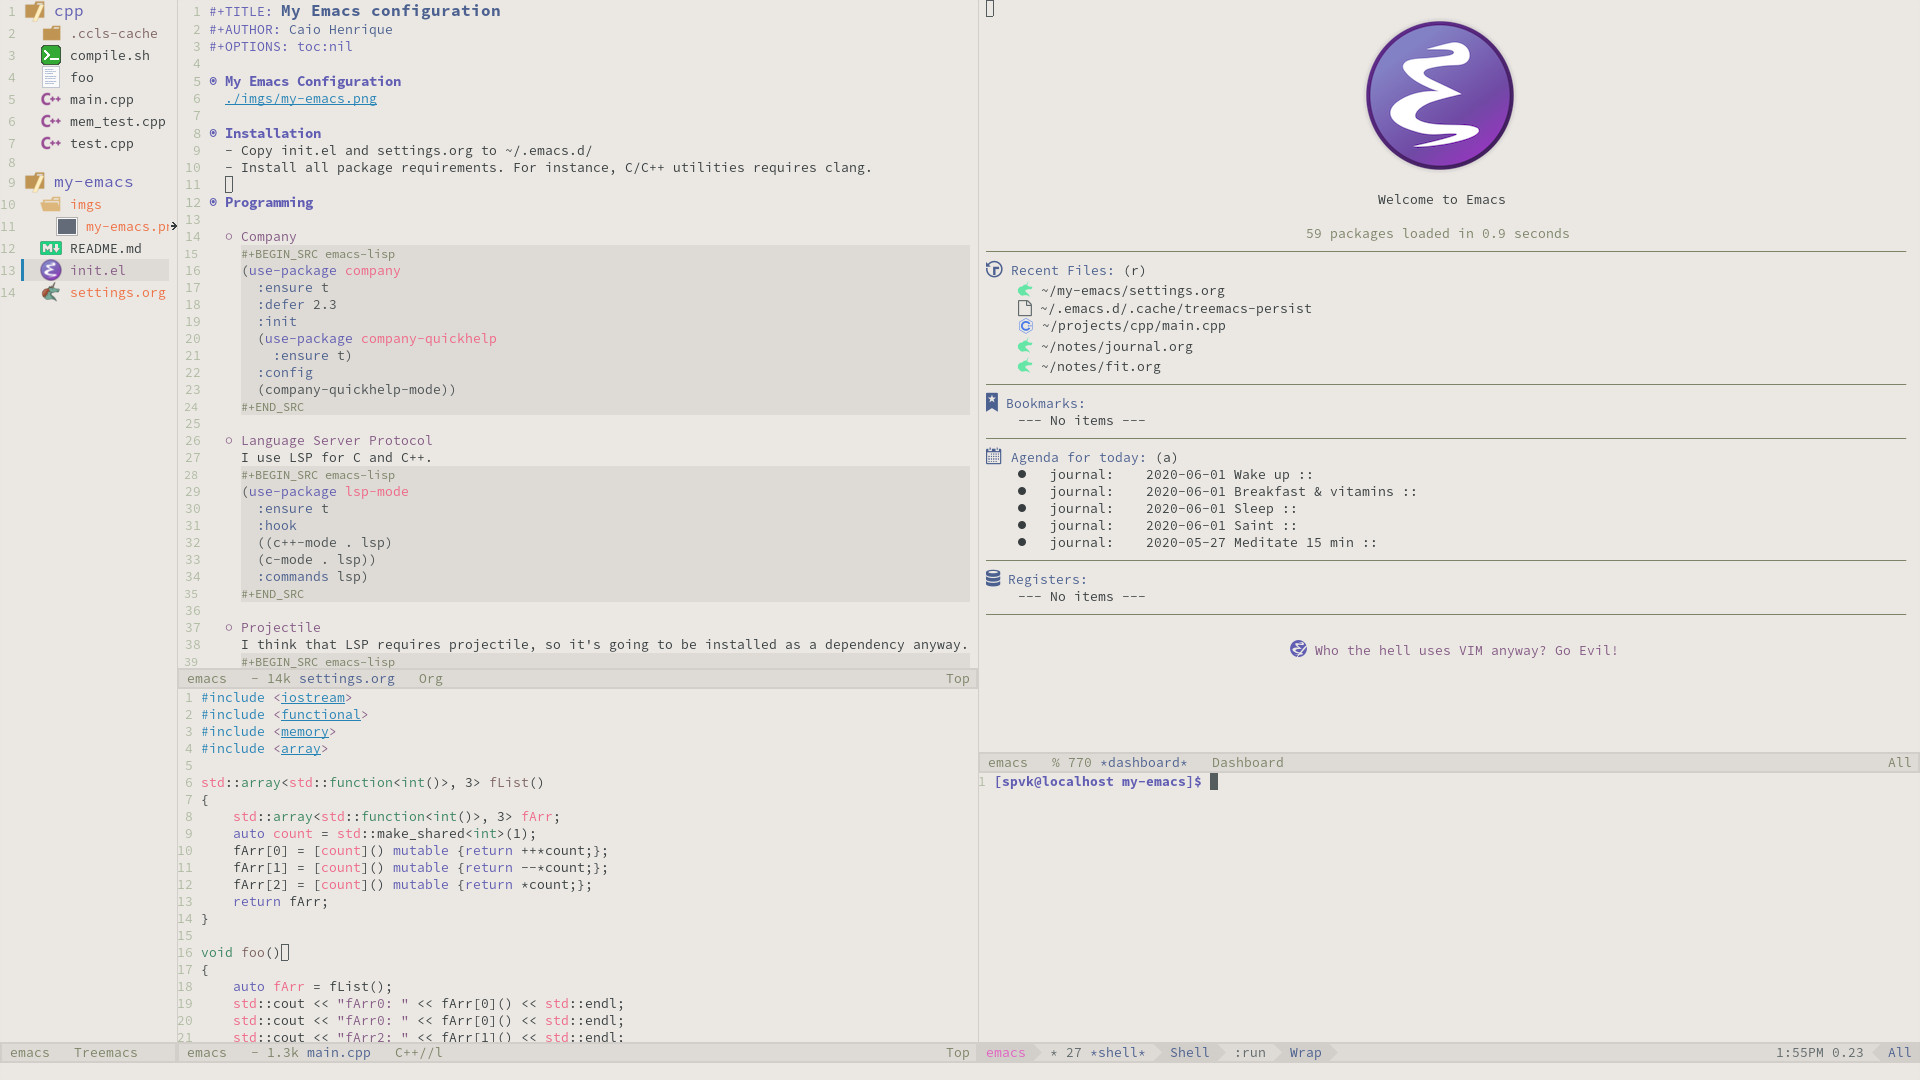
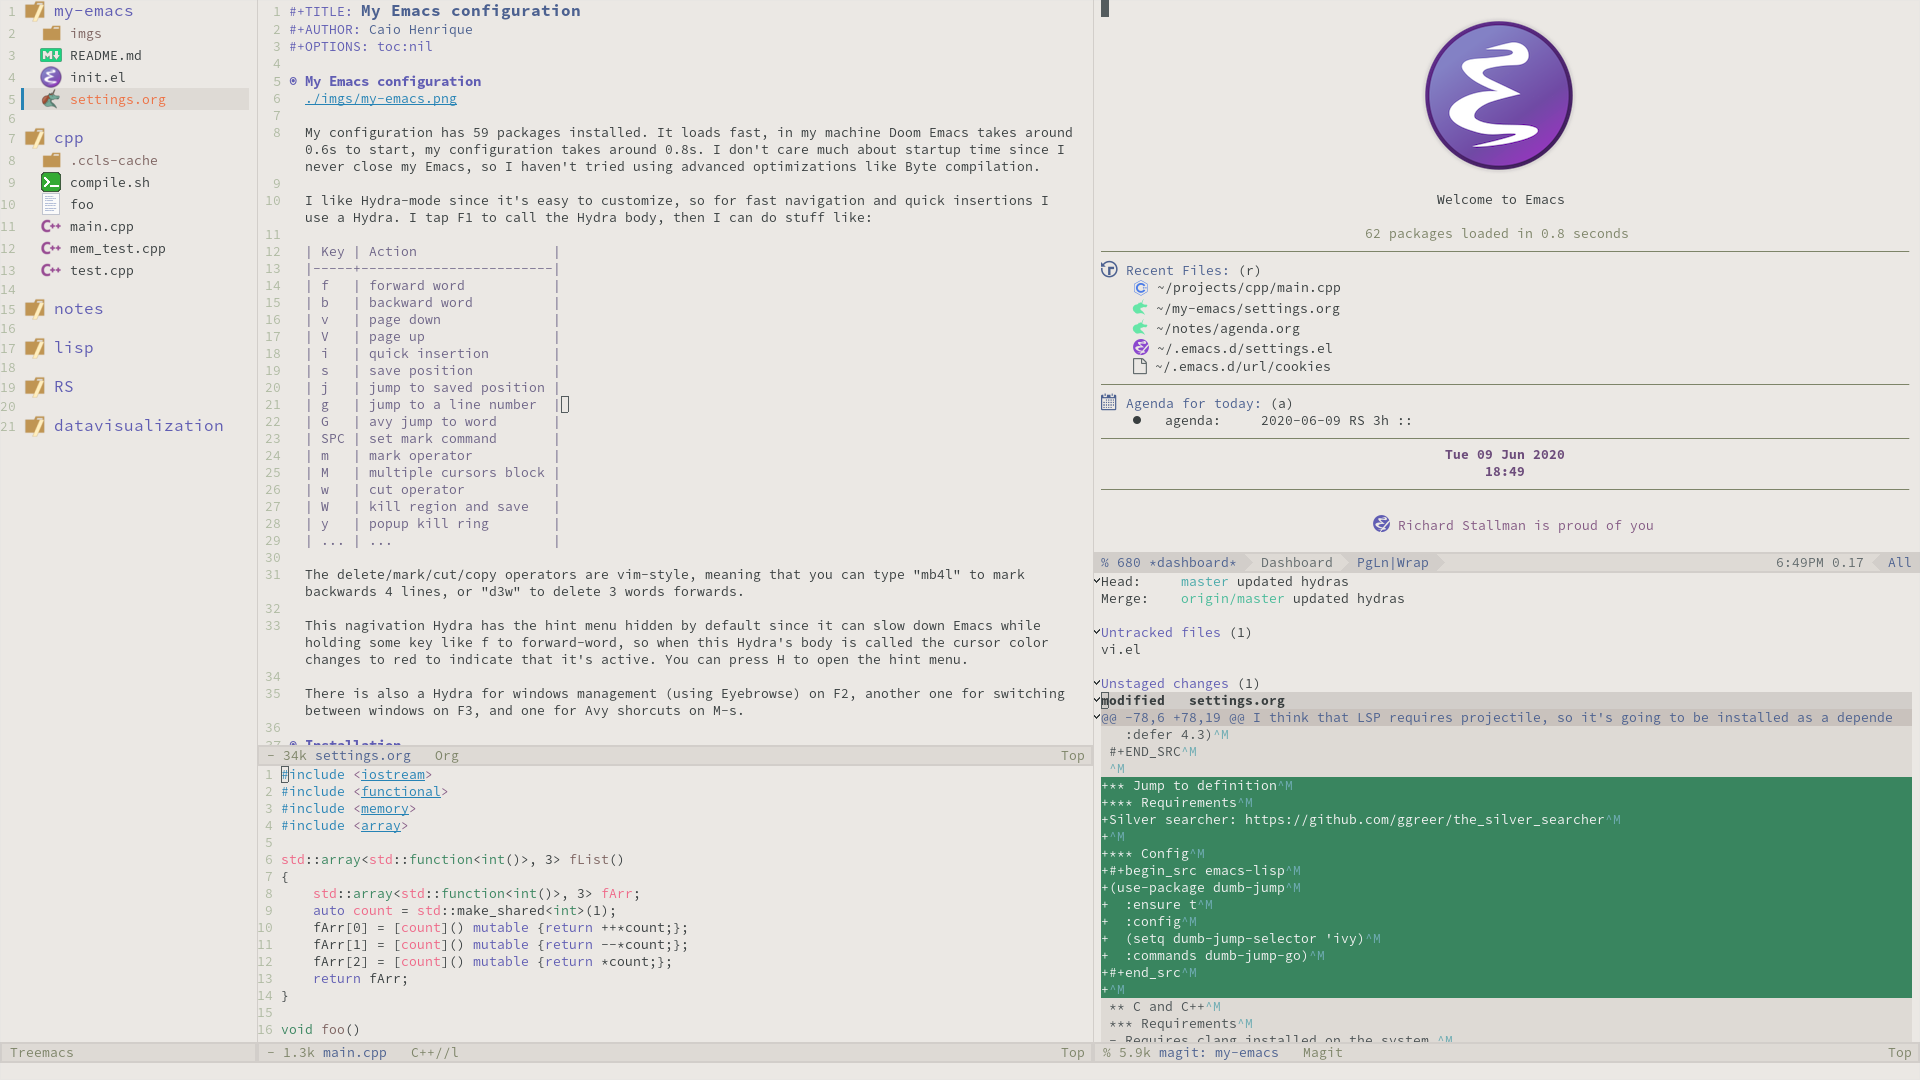
changed hydras, dashboard (added clock), added dumb-jump, readme

diff --git a/README.md b/README.md
@@ -2,9 +2,9 @@
 
 ![img](./imgs/my-emacs.png)
 
-My configuration has 59 packages installed. It loads fast, in my machine Doom Emacs takes around 0.6s to start, my configuration takes around 0.8s. I don't care much about startup time since I never close my Emacs, so I haven't tried using advanced optimizations like Byte compilation.
+My configuration has 62 packages installed. It loads fast, in my machine Doom Emacs takes around 0.6s to start, my configuration takes around 0.8s. I don't care much about startup time since I never close my Emacs, so I haven't tried using advanced optimizations, all I do is defer some things with use-package.
 
-I like Hydra-mode since it's easy to customize, so for fast navigation and quick insertions I use a Hydra. I tap F1 to call the Hydra body, then I can do stuff like:
+I like hydra-mode since it's easy to customize, so for fast navigation and quick insertions I use some nested hydras. I tap F1 to call the hydra body, then I can do stuff like:
 
 | Key      | Action                 |
 |-------- |---------------------- |
@@ -19,17 +19,17 @@ I like Hydra-mode since it's easy to customize, so for fast navigation and quick
 | G        | avy jump to word       |
 | SPC      | set mark command       |
 | m        | mark operator          |
-| M        | multiple cursors block |
+| M        | multiple cursors       |
 | w        | cut operator           |
-| W        | kill region and save   |
+| W        | copy operator          |
 | y        | popup kill ring        |
 | &#x2026; | &#x2026;               |
 
 The delete/mark/cut/copy operators are vim-style, meaning that you can type "mb4l" to mark backwards 4 lines, or "d3w" to delete 3 words forwards.
 
-This nagivation Hydra has the hint menu hidden by default since it can slow down Emacs while holding some key like f to forward-word, so when this Hydra's body is called the cursor color changes to red to indicate that it's active. You can press H to open the hint menu.
+This nagivation hydra has the hint menu hidden by default since it can slow down Emacs while holding some key like f to forward-word, so when this hydra's body is called the cursor color changes to red to indicate that it's active. You can press H to open the hint menu.
 
-There is also a Hydra for windows management (using Eyebrowse) on F2, another one for switching between windows on F3, and one for Avy shorcuts on M-s.
+There is also an hydra for windows management (using Eyebrowse) on F2, another one for dumb-jump on F3, and one for Avy shorcuts on M-s.
 
 
 # Installation
@@ -90,6 +90,25 @@ I think that LSP requires projectile, so it's going to be installed as a depende
 ```
 
 
+## Jump to definition
+
+
+### Requirements
+
+Silver searcher: <https://github.com/ggreer/the_silver_searcher>
+
+
+### Config
+
+```emacs-lisp
+(use-package dumb-jump
+  :ensure t
+  :config
+  (setq dumb-jump-selector 'ivy)
+  :commands dumb-jump-go)
+```
+
+
 ## C and C++
 
 
@@ -118,6 +137,8 @@ I'm assuming that the ccls binary is at /usr/bin/ccls.
 
 (defun my-c-mode-common-hook ()
   (c-set-offset 'substatement-open 0)
+  (c-set-offset 'access-label '/)
+  (c-set-offset 'inclass '+)
   (setq  c-default-style "bsd"
 	 c-basic-offset 4
 	 c-indent-level 4
@@ -246,14 +267,12 @@ I left the Docker packages disabled, so delete the :disabled line if you want th
   (setq dashboard-banner-logo-title "Welcome to Emacs")
   (setq dashboard-startup-banner 'logo)
   (setq dashboard-items '((recents   . 5)
-			  (bookmarks . 5)
-			  (agenda    . 5)
-			  (registers . 5)))
+			  (agenda    . 5)))
   (setq dashboard-set-init-info t)
   (setq dashboard-set-heading-icons t)
   (setq dashboard-set-file-icons t)
 
-
+  ;; adds a clock
   (defun dashboard-insert-custom (list-size)
     (defun string-centralized (str)
       (let* ((indent
@@ -264,23 +283,22 @@ I left the Docker packages disabled, so delete the :disabled line if you want th
 	     (str (concat indent str indent)))
 	(format str " " " ")))
 
-    (insert (string-centralized (format-time-string "%a %d %b %Y" (current-time))))
+    (insert (propertize (string-centralized (format-time-string "%a %d %b %Y" (current-time))) 'font-lock-face '('bold :foreground "#6c4c7b")))
     (newline)
-    (insert (string-centralized (format-time-string "%H:%M:%S" (current-time)))))
+    (insert (propertize (string-centralized (format-time-string "%H:%M" (current-time))) 'font-lock-face '('bold :foreground "#6c4c7b"))))
 
   (add-to-list 'dashboard-item-generators  '(custom . dashboard-insert-custom))
   (add-to-list 'dashboard-items '(custom) t)
 
-  ; (cancel-timer *my-timer*)
-(setq *ntimescall* 0)
-  (defun test-dashboard ()   (setq *ntimescall* (1+ *ntimescall* )) (setq *my-timer* (run-at-time "5 sec" 1 #'(lambda ()
-								       (if (string=
-									    (buffer-name (window-buffer))
-									    "*dashboard*")
-									   (dashboard-refresh-buffer)
-									 (when (timerp *my-timer*)
-									   (cancel-timer *my-timer*))))))))
- ; (add-hook 'dashboard-mode-hook #'test-dashboard)
+  (defun test-dashboard () (setq *my-timer* (run-at-time "20 sec" nil #'(lambda ()
+								       (when *my-timer*
+									(cancel-timer *my-timer*)
+									(setq *my-timer* nil))
+									(when (string=
+									       (buffer-name (window-buffer))
+									       "*dashboard*")
+									 (dashboard-refresh-buffer))))))
+ (add-hook 'dashboard-mode-hook #'test-dashboard))
 ```
 
 
@@ -402,7 +420,18 @@ My favorite themes packages are zerodark-theme, kaolin-themes, moe-theme and dra
     ("f" windmove-right)
     ("p" windmove-up)
     ("n" windmove-down))
-  (global-set-key (kbd "<f3>") 'hydra-wind-move/body)
+
+  (defhydra hydra-dumb-jump (:color teal :columns 3)
+    "Dumb Jump"
+    ("q" nil "quit")
+    ("j" dumb-jump-go "Go")
+    ("o" dumb-jump-go-other-window "Other window")
+    ("e" dumb-jump-go-prefer-external "Go external")
+    ("x" dumb-jump-go-prefer-external-other-window "Go external other window")
+    ("i" dumb-jump-go-prompt "Prompt")
+    ("l" dumb-jump-quick-look "Quick look")
+    ("b" dumb-jump-back "Back"))
+  (global-set-key (kbd "<f3>") 'hydra-dumb-jump/body)
 
   (defhydra hydra-multiple-cursors (:color teal 
 				    :hint nil
@@ -610,7 +639,10 @@ My favorite themes packages are zerodark-theme, kaolin-themes, moe-theme and dra
     ("F" (when (= (skip-syntax-forward "-") 0) (forward-char 1)))
     ("B" (when (= (skip-syntax-backward "-") 0) (backward-char 1)))
     ("g" hydra-avy/body :exit t)
-    ("i" (lambda (arg) (interactive "cChoose a register:") (insert-register arg)))
+    ("I" (lambda (arg) (interactive "cChoose a register:") (insert-register arg)))
+    ("i" (lambda (txt)
+	   (interactive "sQuick insertion:")
+	   (insert txt)))
     ("=" er/expand-region)
     ("m" (hydra-call/hydra-modal-operators 'hydra-modal-operator/mark) :exit t)
     ("M" hydra-multiple-cursors/body :exit t)
@@ -646,6 +678,15 @@ My favorite themes packages are zerodark-theme, kaolin-themes, moe-theme and dra
   :config
   (use-package counsel
     :ensure t))
+```
+
+
+## Regular expressions
+
+```emacs-lisp
+(use-package visual-regexp-steroids
+  :ensure t
+  :commands vr/replace)
 ```
 
 
